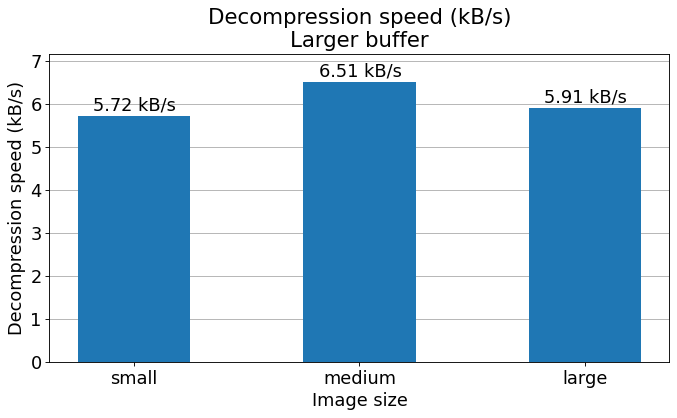
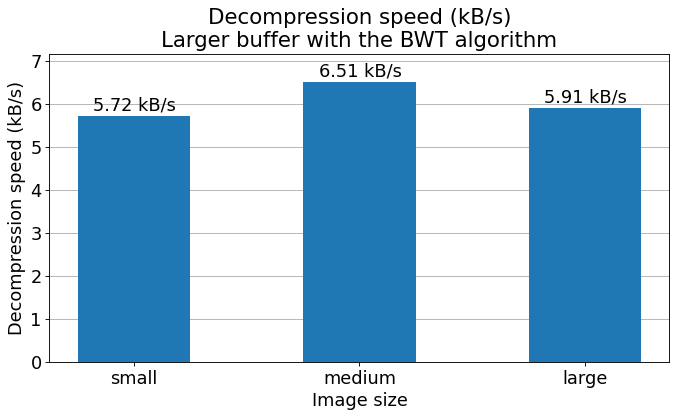
New image

Changed region(s): [[0.2171, 0.0622, 0.8375, 0.1244]]

diff --git a/read_res.py b/read_res.py
@@ -67,7 +67,9 @@ for file_res in os.listdir("results"):
     if "smaller" in file_res:
         title += "Smaller buffer"
     if "with_" not in file_res:
-        title += "No BWT"
+        title += " without the BWT algorithm"
+    else:
+        title += " with the BWT algorithm"
         
     plt.title(title)
     plt.xlim(-2.7, 10)
@@ -76,6 +78,53 @@ for file_res in os.listdir("results"):
     plt.grid(axis = 'y')  
     plt.legend(ncol = 3, loc = "upper left")
     plt.savefig("results/" + file_res.replace(".csv", "_") + "size_comparison.png", bbox_inches = "tight")
+    plt.close()
+    
+    numrows = 0
+    for ix_row in range(len(dict_vals.keys())):
+        rowname = list(dict_vals.keys())[ix_row]  
+        if "time" in rowname:
+            numrows += 1
+
+    plt.figure(figsize = (10, 5), dpi = 80)
+    plt.rcParams.update({'font.size': 16}) 
+    for ix_row in range(len(dict_vals.keys())):
+        rowname = list(dict_vals.keys())[ix_row] 
+        if "time" in rowname:
+            x_vals = [i * (numrows + 1) + ix_row - int(numrows // 2) for i in range(len(list(dict_vals[rowname].values())))] 
+            plt.bar(x_vals, list(dict_vals[rowname].values()), label = rowname, zorder = 2)
+            for i in range(len(x_vals)):
+                yoff = 0.06 * max(list(dict_vals[rowname].values()))
+                if list(dict_vals[rowname].values())[i] < 0:
+                    yoff = 0.7 * max(list(dict_vals[rowname].values()))
+                add_str = " " + rowname.split("(")[-1].replace(")", "")
+                x_off = len(str(list(dict_vals[rowname].values())[i]) + add_str) / 10
+                if "before" in rowname:
+                    x_off = len(str(list(dict_vals[rowname].values())[i]) + add_str) / 7
+                if "%" in add_str:
+                    add_str = "%"
+                plt.text(x_vals[i] - x_off, list(dict_vals[rowname].values())[i] + yoff, str(list(dict_vals[rowname].values())[i]) + add_str)
+    
+    plt.xticks([i * (numrows + 1) for i in range(len(list(dict_vals[rowname].values())))], use_cols)
+
+    title = "Compression and decompression time\n"
+
+    if "larger" in file_res:
+        title += "Larger buffer"
+    if "smaller" in file_res:
+        title += "Smaller buffer"
+    if "with_" not in file_res:
+        title += " without the BWT algorithm"
+    else:
+        title += " with the BWT algorithm"
+        
+    plt.title(title)
+    plt.xlim(-2.7, 10)
+    plt.ylim(-350, 1050)
+    plt.xlabel("Image size")
+    plt.grid(axis = 'y')  
+    plt.legend(ncol = 3, loc = "upper left")
+    plt.savefig("results/" + file_res.replace(".csv", "_") + "compression_decompression_time.png", bbox_inches = "tight")
     plt.close()
     
     for ix_row in range(len(dict_vals.keys())):
@@ -99,7 +148,9 @@ for file_res in os.listdir("results"):
             if "smaller" in file_res:
                 title += "Smaller buffer"
             if "with_" not in file_res:
-                title += "No BWT"
+                title += " without the BWT algorithm"
+            else:
+                title += " with the BWT algorithm"
                 
             plt.ylabel(rowname.capitalize())
             plt.title(title)
@@ -133,7 +184,9 @@ for file_res in os.listdir("results"):
     if "smaller" in file_res:
         title += "Smaller buffer"
     if "with_" not in file_res:
-        title += "No BWT"
+        title += " without the BWT algorithm"
+    else:
+        title += " with the BWT algorithm"
         
     plt.ylabel("Compression speed (kB/s)")
     plt.title(title)
@@ -167,7 +220,9 @@ for file_res in os.listdir("results"):
     if "smaller" in file_res:
         title += "Smaller buffer"
     if "with_" not in file_res:
-        title += "No BWT"
+        title += " without the BWT algorithm"
+    else:
+        title += " with the BWT algorithm"
         
     plt.ylabel("Decompression speed (kB/s)")
     plt.title(title)
